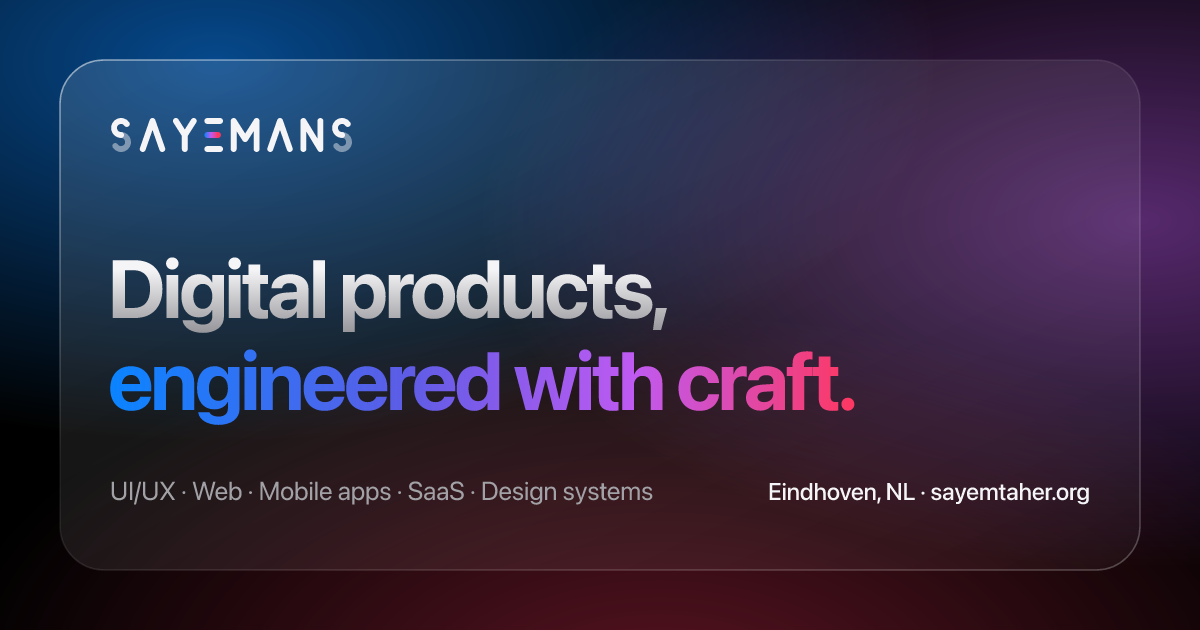
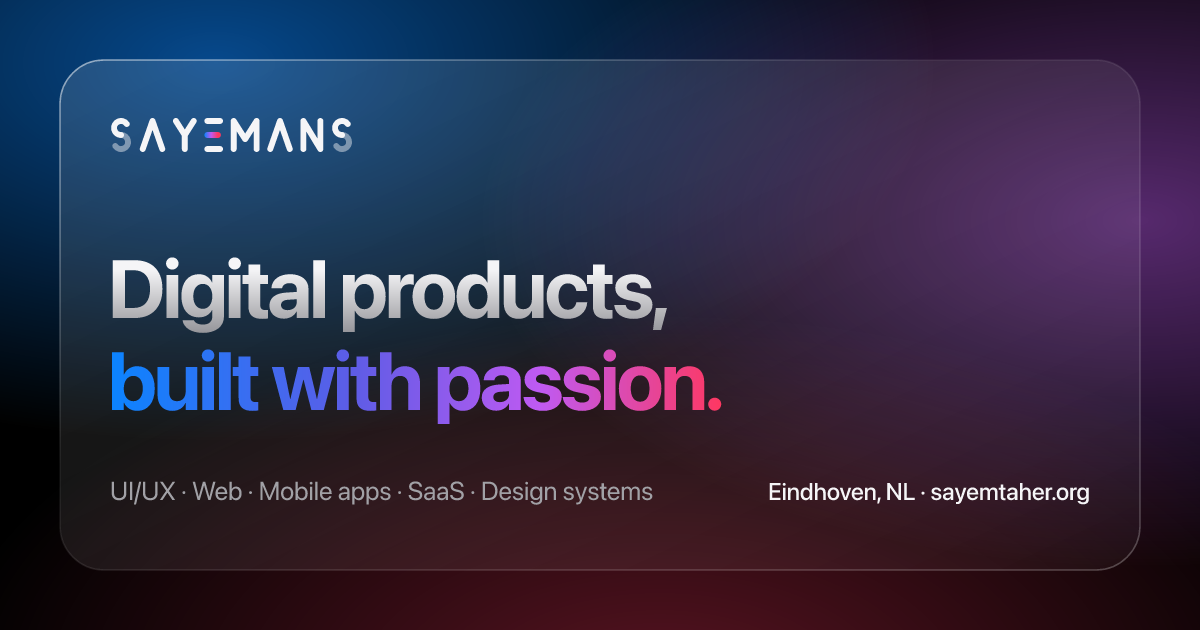
Rewrite site copy in plainer, more personal language
- New tagline: "Digital products, built with passion."
- Removed overused phrases (craft, ambitious, effortless, momentum,
  next generation, exceptional, zero friction, moves the needle, etc.)
- OG image regenerated with the new tagline

Changed region(s): [[0.0925, 0.5429, 0.7092, 0.6937]]

diff --git a/src/data/services.js b/src/data/services.js
@@ -6,11 +6,11 @@ export const services = [
     slug: 'ui-ux-design',
     icon: 'PenTool',
     title: 'UI/UX Design',
-    kicker: 'Interfaces people love to use',
+    kicker: 'Interfaces that make sense',
     summary:
       'Research-led product design: user flows, wireframes, high-fidelity UI and interactive prototypes, grounded in real user behaviour.',
     description:
-      'Great software feels obvious. We get there by understanding your users first: interviews, analytics review and competitive audits. Then we turn those insights into flows, wireframes and pixel-precise interfaces. Every screen is prototyped and tested before a single line of production code is written, so you ship with confidence rather than assumptions.',
+      'Good software is easy to understand. We get there by understanding your users first: interviews, analytics review and competitive audits. Then we turn those insights into flows, wireframes and carefully detailed interfaces. Every screen is prototyped and tested before a single line of production code is written, so you ship with confidence rather than assumptions.',
     deliverables: [
       'UX research & stakeholder workshops',
       'User journeys, flows & information architecture',
@@ -69,7 +69,7 @@ export const services = [
     slug: 'saas-product-development',
     icon: 'Boxes',
     title: 'SaaS Product Development',
-    kicker: 'From MVP to scale',
+    kicker: 'From first version to growth',
     summary:
       'End-to-end SaaS builds with multi-tenant architecture, billing, auth, dashboards and the infrastructure to grow.',
     description:
@@ -90,11 +90,11 @@ export const services = [
     slug: 'design-systems',
     icon: 'Layers',
     title: 'Design Systems & Branding',
-    kicker: 'Consistency at scale',
+    kicker: 'One look, everywhere',
     summary:
       'Visual identities, component libraries and design tokens that keep every product and touchpoint coherent.',
     description:
-      'As products grow, consistency erodes. We build design systems that stop the drift: brand foundations, design tokens, accessible component libraries in Figma and code, and documentation your whole team can follow. The result is faster design, faster development and a brand that feels unmistakably yours.',
+      'As products grow, consistency erodes. We build design systems that stop the drift: brand foundations, design tokens, accessible component libraries in Figma and code, and documentation your whole team can follow. The result is faster design, faster development and a brand that looks and feels the same everywhere.',
     deliverables: [
       'Brand identity & visual language',
       'Design tokens (colour, type, spacing, motion)',
@@ -113,9 +113,9 @@ export const services = [
     title: 'Product Strategy & Consulting',
     kicker: 'Clarity before code',
     summary:
-      'Discovery sprints, product audits and technical roadmaps that de-risk your investment before you build.',
+      'Discovery sprints, product audits and technical roadmaps, so you know what to build before you spend money on it.',
     description:
-      'Not sure what to build, or why the current product under-performs? Our discovery sprints and audits give you clarity. We review UX, analytics, tech stack and market position, then deliver a prioritised roadmap with effort estimates, so every euro goes to what moves the needle.',
+      'Not sure what to build, or why the current product under-performs? Our discovery sprints and audits give you clarity. We review UX, analytics, tech stack and market position, then deliver a prioritised roadmap with effort estimates, so every euro goes to what actually makes a difference.',
     deliverables: [
       'Discovery & design sprints',
       'UX and conversion audits',
@@ -136,7 +136,7 @@ export const services = [
     summary:
       'Serverless back-ends, REST/GraphQL APIs, automation and integrations with the tools your business already runs on.',
     description:
-      'We connect the dots between your product and the rest of your stack. Serverless back-ends on Firebase and Cloudflare, secure APIs, CRM, ERP and payment integrations, and workflow automation that removes manual work, all monitored and documented.',
+      'We connect your product to the tools your business already uses. Serverless back-ends on Firebase and Cloudflare, secure APIs, CRM, ERP and payment integrations, and workflow automation that removes manual work, all monitored and documented.',
     deliverables: [
       'Serverless back-ends & APIs',
       'CRM, ERP & payment integrations',
@@ -153,7 +153,7 @@ export const services = [
     slug: 'care-and-growth',
     icon: 'LifeBuoy',
     title: 'Care & Growth Plans',
-    kicker: 'Launch is just the beginning',
+    kicker: 'Looked after, month after month',
     summary:
       'Ongoing maintenance, security updates, performance monitoring and continuous improvement after launch.',
     description:

diff --git a/src/data/content.js b/src/data/content.js
@@ -61,8 +61,8 @@ export const industries = [
 ];
 
 export const principles = [
-  { icon: 'Sparkles', title: 'Craft over templates', text: 'Every product is designed from first principles. No themes, no shortcuts.' },
-  { icon: 'Zap', title: 'Speed with rigour', text: 'Short sprints and weekly demos. Momentum without cutting corners.' },
+  { icon: 'Sparkles', title: 'Made for you, not from a template', text: 'Every product starts from your users and your goals. No themes, no shortcuts.' },
+  { icon: 'Zap', title: 'Speed with rigour', text: 'Short sprints and weekly demos. Fast, but never careless.' },
   { icon: 'ShieldCheck', title: 'Privacy by design', text: 'GDPR-compliant architecture, EU-hosted data options and secure defaults.' },
   { icon: 'LineChart', title: 'Outcomes, measured', text: 'We define success metrics up front and report on them after launch.' },
 ];
@@ -83,7 +83,7 @@ export const capabilities = [
 export const generalFaqs = [
   {
     q: 'What kind of companies do you work with?',
-    a: 'Mostly B2B companies, SaaS teams and funded startups in the Netherlands and wider EU, but we work with ambitious businesses of any size that care about quality.',
+    a: 'Mostly B2B companies, SaaS teams and funded startups in the Netherlands and wider EU, but we work with businesses of any size that care about quality.',
   },
   {
     q: 'How quickly can you start?',

diff --git a/src/pages/Home.jsx b/src/pages/Home.jsx
@@ -24,7 +24,7 @@ export default function Home() {
 
       <ScrollStatement
         eyebrow="Why SAYEMANS"
-        text="We partner with B2B companies, SaaS teams and founders to turn complex ideas into products that feel effortless. Researched, designed, engineered and launched by one senior team. No hand-offs. No templates. Just craft."
+        text="We work with B2B companies, SaaS teams and founders to turn complicated ideas into products that are simple to use. One small team researches, designs, builds and launches it, and stays with you afterwards. No handovers, no templates. Honest work, done with passion."
       />
 
       <ServicesBento />
@@ -48,7 +48,7 @@ export default function Home() {
       </section>
 
       <section className="container-x py-24 sm:py-32">
-        <SectionHeader eyebrow="Who we serve" title="Built for teams that build." intro="From enterprise workflows to startup MVPs, we speak the language of your industry." />
+        <SectionHeader eyebrow="Who we serve" title="Built for teams that build." intro="From enterprise workflows to startup MVPs, we take the time to learn how your industry works." />
         <div className="mt-16">
           <FeatureGrid items={industries} />
         </div>

diff --git a/src/components/sections/Hero.jsx b/src/components/sections/Hero.jsx
@@ -38,7 +38,7 @@ export default function Hero() {
 
         <h1 className="mt-8 max-w-5xl text-display font-semibold">
           <RevealText as="span" animateOnMount delay={0.15} text="Digital products," className="block text-chrome" />
-          <RevealText as="span" animateOnMount delay={0.35} text="engineered with craft." className="block text-gradient pb-2" />
+          <RevealText as="span" animateOnMount delay={0.35} text="built with passion." className="block text-gradient pb-2" />
         </h1>
 
         <p
@@ -46,7 +46,7 @@ export default function Hero() {
           className="enter mt-7 max-w-2xl text-lg leading-relaxed text-fg-muted sm:text-xl"
         >
           SAYEMANS is a digital product studio from Eindhoven, the Netherlands. We design and build websites, SaaS platforms and apps
-          for B2B companies and ambitious startups, from first sketch to scale.
+          for B2B companies and growing startups, from the first sketch to launch day and long after.
         </p>
 
         <div style={{ '--d': '0.75s' }} className="enter mt-10 flex flex-col gap-3 sm:flex-row">

diff --git a/src/pages/About.jsx b/src/pages/About.jsx
@@ -26,11 +26,11 @@ export default function About() {
     <>
       <PageHero
         eyebrow="About"
-        title="A studio for the next generation of digital products."
+        title="A small studio with a lot of passion for good software."
         intro="SAYEMANS was founded in Eindhoven in 2022 with a simple belief: software should feel as considered as the best physical products."
       />
 
-      <ScrollStatement text="We are a small, senior team of designers and engineers. We would rather ship one exceptional product than ten average ones. We build our own products, so we understand what it takes to launch, grow and sustain one." />
+      <ScrollStatement text="We are a small, senior team of designers and engineers. We would rather do one product properly than ten in a hurry. We build our own products, so we understand what it takes to launch, grow and sustain one." />
 
       <StatsBand />
 

diff --git a/src/config/company.js b/src/config/company.js
@@ -11,9 +11,9 @@ export const company = {
   legalForm: 'Eenmanszaak', // sole proprietorship
   industry: 'Computer programming / software design (SBI 62100)',
   sbi: '62100',
-  tagline: 'Digital products, engineered with craft.',
+  tagline: 'Digital products, built with passion.',
   description:
-    'SAYEMANS is a digital product studio from Eindhoven, the Netherlands, that designs and builds websites, SaaS platforms, mobile apps and design systems for B2B companies and ambitious startups.',
+    'SAYEMANS is a digital product studio from Eindhoven, the Netherlands, that designs and builds websites, SaaS platforms, mobile apps and design systems for B2B companies and growing startups.',
   email: 'sayemans.inc@gmail.com',
   phone: null, // e.g. '+31 6 12345678'
   kvk: '85588105', // KvK (Chamber of Commerce) number

diff --git a/src/components/sections/ProcessSticky.jsx b/src/components/sections/ProcessSticky.jsx
@@ -15,7 +15,7 @@ export default function ProcessSticky({ cta = true }) {
     <section ref={ref} className="container-x grid gap-12 py-24 sm:py-32 lg:grid-cols-[1fr_1.2fr] lg:gap-20">
       <div className="lg:sticky lg:top-32 lg:self-start">
         <Reveal as="p" className="eyebrow">How we work</Reveal>
-        <RevealText text="A process built for momentum." className="mt-5 text-headline font-semibold text-chrome" />
+        <RevealText text="A process you can follow." className="mt-5 text-headline font-semibold text-chrome" />
         <Reveal as="p" delay={0.15} className="mt-6 max-w-md text-lg leading-relaxed text-fg-muted">
           Six clear phases, weekly demos and one shared roadmap. You always know what is happening, what is next and what it costs.
         </Reveal>

diff --git a/src/pages/Process.jsx b/src/pages/Process.jsx
@@ -16,7 +16,7 @@ const rituals = [
 export default function Process() {
   return (
     <>
-      <PageHero eyebrow="Process" title="Clarity at every step." intro="A proven six-phase process that de-risks your investment and keeps momentum high from kickoff to growth." />
+      <PageHero eyebrow="Process" title="Clarity at every step." intro="A proven six-phase process that protects your budget and keeps you informed from the first meeting to launch and beyond." />
       <ProcessSticky cta={false} />
       <section className="container-x py-24">
         <SectionHeader eyebrow="Ways of working" title="How collaboration feels." />

diff --git a/src/pages/Solutions.jsx b/src/pages/Solutions.jsx
@@ -69,7 +69,7 @@ const solutions = [
 export default function Solutions() {
   return (
     <>
-      <PageHero eyebrow="Solutions" title="Solutions shaped around your stage." intro="Whether you are modernising a B2B workflow or launching your first SaaS, we bring a proven playbook for your situation." />
+      <PageHero eyebrow="Solutions" title="Solutions shaped around your stage." intro="Whether you are modernising a B2B workflow or launching your first SaaS, we have done it before and know where the pitfalls are." />
 
       <section className="container-x py-12">
         <Stagger className="grid gap-5 md:grid-cols-2">

diff --git a/src/pages/Contact.jsx b/src/pages/Contact.jsx
@@ -96,7 +96,7 @@ export default function Contact() {
 
   return (
     <>
-      <PageHero eyebrow="Contact" title="Let’s build something great." intro={`Tell us about your product. We reply ${company.responseTime}, usually with a few smart questions and an invite for a free intro call.`} />
+      <PageHero eyebrow="Contact" title="Tell us about your idea." intro={`Tell us about your product. We reply ${company.responseTime}, usually with a few smart questions and an invite for a free intro call.`} />
 
       <section className="container-x grid gap-8 pb-16 lg:grid-cols-[1.6fr_1fr]">
         <Reveal>

diff --git a/src/components/sections/ServicesBento.jsx b/src/components/sections/ServicesBento.jsx
@@ -15,7 +15,7 @@ export default function ServicesBento({ limit = services.length, header = true }
         <SectionHeader
           eyebrow="What we do"
           title="Everything your product needs. Under one roof."
-          intro="Strategy, design, engineering and growth. One team, one process, zero hand-off friction."
+          intro="Strategy, design, engineering and growth. One team and one process, so nothing gets lost between agencies."
         />
       )}
       <Stagger className="mt-16 grid auto-rows-[minmax(220px,auto)] grid-cols-1 gap-4 md:grid-cols-6">

diff --git a/src/components/layout/Head.jsx b/src/components/layout/Head.jsx
@@ -19,7 +19,7 @@ export function buildHead(seo, pathname) {
       ['property', 'og:image', image],
       ['property', 'og:image:width', seo.image ? null : '1200'],
       ['property', 'og:image:height', seo.image ? null : '630'],
-      ['property', 'og:image:alt', 'SAYEMANS: digital products, engineered with craft.'],
+      ['property', 'og:image:alt', 'SAYEMANS: digital products, built with passion.'],
       ['property', 'og:locale', 'en_US'],
       ['name', 'twitter:card', 'summary_large_image'],
       ['name', 'twitter:title', title],
